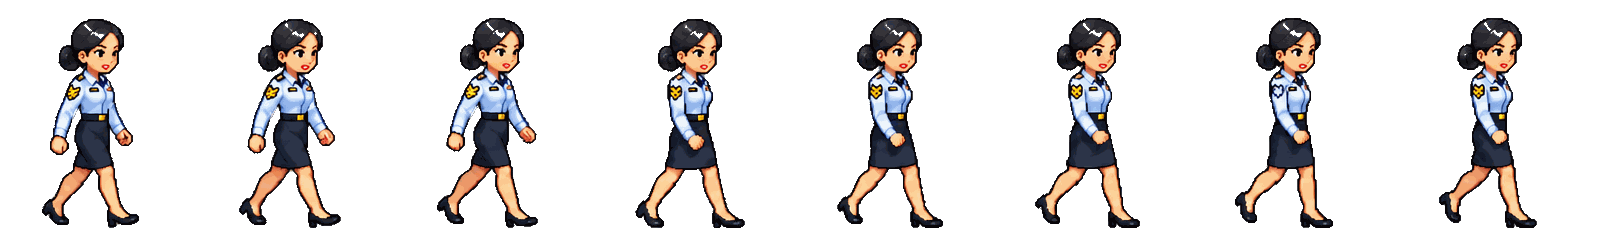
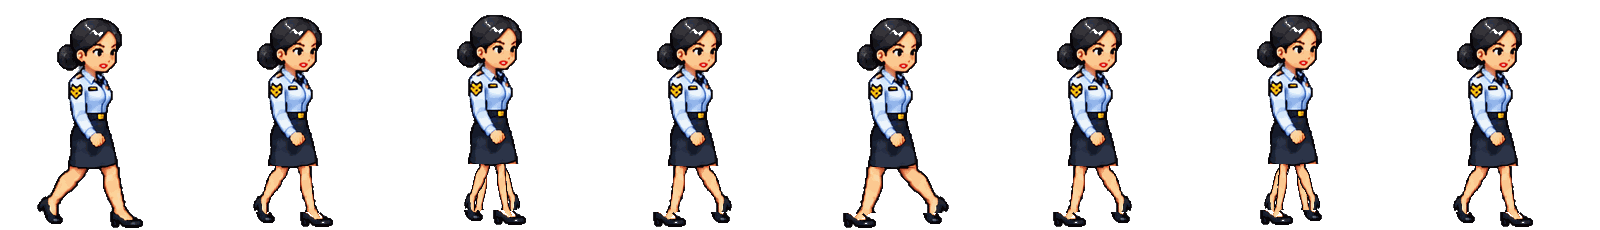
v80: Cream walk — real alternating leg cycle built from the side-view stride (sheet frames never swapped legs)
Claude-Session: https://claude.ai/code/session_01VFZcD5MpvnMAPzCcrJgChf

diff --git a/public/index.html b/public/index.html
@@ -9,9 +9,9 @@
 <meta name="apple-mobile-web-app-title" content="LETTERⁿ">
 <meta name="theme-color" content="#08070f">
 <meta name="description" content="LETTERⁿ — เกมสะกดคำภาษาอังกฤษสู้มอนสเตอร์">
-<link rel="manifest" href="manifest.json?v=79">
-<link rel="icon" href="icons/icon-192.png?v=79">
-<link rel="apple-touch-icon" href="icons/apple-touch-icon.png?v=79">
+<link rel="manifest" href="manifest.json?v=80">
+<link rel="icon" href="icons/icon-192.png?v=80">
+<link rel="apple-touch-icon" href="icons/apple-touch-icon.png?v=80">
 <meta name="apple-mobile-web-app-capable" content="yes">
 <title>LETTERⁿ — Word Battle RPG</title>
 <link rel="preconnect" href="https://fonts.googleapis.com">
@@ -1333,20 +1333,20 @@ button,.tile{touch-action:manipulation;-webkit-tap-highlight-color:transparent}
   .modal-box,.sheet{max-height:92vh;overflow-y:auto}
 }
 </style>
-<link rel="stylesheet" href="css/ql2.css?v=79">
-<link rel="stylesheet" href="css/endgame.css?v=79">
-<link rel="stylesheet" href="css/battle.css?v=79">
-<link rel="stylesheet" href="css/ui26.css?v=79">
-<link rel="stylesheet" href="css/boss.css?v=79">
-<link rel="stylesheet" href="css/tactics.css?v=79">
-<link rel="stylesheet" href="css/ecl.css?v=79">
+<link rel="stylesheet" href="css/ql2.css?v=80">
+<link rel="stylesheet" href="css/endgame.css?v=80">
+<link rel="stylesheet" href="css/battle.css?v=80">
+<link rel="stylesheet" href="css/ui26.css?v=80">
+<link rel="stylesheet" href="css/boss.css?v=80">
+<link rel="stylesheet" href="css/tactics.css?v=80">
+<link rel="stylesheet" href="css/ecl.css?v=80">
 </head>
 <body>
 <div id="app"></div>
-<script src="js/ql2/balance.js?v=79"></script>
-<script src="data/lexicon.js?v=79"></script>
-<script src="data/vocabulary.js?v=79"></script>
-<script src="js/ql2/vocab.js?v=79"></script>
+<script src="js/ql2/balance.js?v=80"></script>
+<script src="data/lexicon.js?v=80"></script>
+<script src="data/vocabulary.js?v=80"></script>
+<script src="js/ql2/vocab.js?v=80"></script>
 <script>window.__QL2 = 1; setTimeout(function(){ if(!window.__QL2_READY && typeof render==='function'){ window.__QL2 = 0; render(); } }, 5000);</script>
 <div class="toasts" id="toasts"></div>
 <div id="overlay"></div>
@@ -1794,7 +1794,7 @@ const ARMOR_OV = {
 */
 const HERO_IMG = {
 };
-const HERO_IMG_VER = 28; // เปลี่ยนภาพแล้วภาพเก่ายังค้าง → เพิ่มเลขนี้ทีละ 1
+const HERO_IMG_VER = 29; // เปลี่ยนภาพแล้วภาพเก่ายังค้าง → เพิ่มเลขนี้ทีละ 1
 function heroImgSVG(cfg){
   const h = cfg.h || 160, w = h, x = -w/2 + (cfg.dx||0), y = -h + (cfg.dy||0);
   const src = cfg.src + (cfg.src.includes('?') ? '&' : '?') + 'v=' + HERO_IMG_VER;
@@ -6076,7 +6076,7 @@ render();
 setMusic(save.settings.music);
 if('serviceWorker' in navigator && location.protocol.startsWith('http')) navigator.serviceWorker.register('service-worker.js', { updateViaCache:'none' }).then(r=>{ window.__swReg = r; }).catch(()=>{});
 /* v66: never run a half-updated game — if the server has a newer version, reload once (not in the middle of a battle / exam) */
-const APP_VERSION = 79;
+const APP_VERSION = 80;
 (function(){
   let busy = false;
   async function check(){
@@ -7071,43 +7071,43 @@ document.documentElement.classList.add('v16');
 if(ui.screen!=='battle') render();
 </script>
 <!-- Quest Lines 2.0 — World & Progression (loaded after the game; wraps it, never replaces the battle) -->
-<script src="js/ql2/core.js?v=79"></script>
-<script src="js/ql2/quests.js?v=79"></script>
-<script src="js/ql2/shell.js?v=79"></script>
-<script src="js/ql2/settings.js?v=79"></script>
-<script src="js/ql2/hub.js?v=79"></script>
-<script src="js/ql2/world.js?v=79"></script>
-<script src="js/ql2/questboard.js?v=79"></script>
-<script src="js/ql2/heroes.js?v=79"></script>
-<script src="js/ql2/inventory.js?v=79"></script>
-<script src="js/ql2/codex.js?v=79"></script>
-<script src="js/ql2/profile.js?v=79"></script>
-<script src="js/ql2/endgame-core.js?v=79"></script>
-<script src="js/ql2/endgame-modes.js?v=79"></script>
-<script src="js/ql2/endgame-ui.js?v=79"></script>
-<script src="js/ql2/armory.js?v=79"></script>
-<script src="js/ql2/items.js?v=79"></script>
-<script src="js/ql2/more.js?v=79"></script>
-<script src="js/ql2/wordfx.js?v=79"></script>
-<script src="js/ql2/boss-encounter.js?v=79"></script>
-<script src="js/ql2/zombies.js?v=79"></script>
-<script src="js/ql2/bestiary.js?v=79"></script>
-<script src="js/ql2/kirby.js?v=79"></script>
-<script src="js/ql2/knight.js?v=79"></script>
-<script src="js/ql2/unlocks.js?v=79"></script>
-<script src="js/ql2/tactics.js?v=79"></script>
-<script src="js/ql2/events.js?v=79"></script>
-<script src="js/ql2/ecl.js?v=79"></script>
-<script src="js/ql2/luffy.js?v=79"></script>
-<script src="js/ql2/sonic.js?v=79"></script>
-<script src="js/ql2/heroplus.js?v=79"></script>
-<script src="js/ql2/heroup.js?v=79"></script>
-<script src="js/ql2/ultcharge.js?v=79"></script>
-<script src="js/ql2/yota.js?v=79"></script>
-<script src="js/ql2/cream.js?v=79"></script>
-<script src="js/ql2/freeheroes.js?v=79"></script>
-<script src="js/ql2/goldbulb.js?v=79"></script>
-<script src="js/ql2/title.js?v=79"></script>
-<script src="js/ql2/dev.js?v=79"></script>
-<script src="js/ql2/boot.js?v=79"></script>
+<script src="js/ql2/core.js?v=80"></script>
+<script src="js/ql2/quests.js?v=80"></script>
+<script src="js/ql2/shell.js?v=80"></script>
+<script src="js/ql2/settings.js?v=80"></script>
+<script src="js/ql2/hub.js?v=80"></script>
+<script src="js/ql2/world.js?v=80"></script>
+<script src="js/ql2/questboard.js?v=80"></script>
+<script src="js/ql2/heroes.js?v=80"></script>
+<script src="js/ql2/inventory.js?v=80"></script>
+<script src="js/ql2/codex.js?v=80"></script>
+<script src="js/ql2/profile.js?v=80"></script>
+<script src="js/ql2/endgame-core.js?v=80"></script>
+<script src="js/ql2/endgame-modes.js?v=80"></script>
+<script src="js/ql2/endgame-ui.js?v=80"></script>
+<script src="js/ql2/armory.js?v=80"></script>
+<script src="js/ql2/items.js?v=80"></script>
+<script src="js/ql2/more.js?v=80"></script>
+<script src="js/ql2/wordfx.js?v=80"></script>
+<script src="js/ql2/boss-encounter.js?v=80"></script>
+<script src="js/ql2/zombies.js?v=80"></script>
+<script src="js/ql2/bestiary.js?v=80"></script>
+<script src="js/ql2/kirby.js?v=80"></script>
+<script src="js/ql2/knight.js?v=80"></script>
+<script src="js/ql2/unlocks.js?v=80"></script>
+<script src="js/ql2/tactics.js?v=80"></script>
+<script src="js/ql2/events.js?v=80"></script>
+<script src="js/ql2/ecl.js?v=80"></script>
+<script src="js/ql2/luffy.js?v=80"></script>
+<script src="js/ql2/sonic.js?v=80"></script>
+<script src="js/ql2/heroplus.js?v=80"></script>
+<script src="js/ql2/heroup.js?v=80"></script>
+<script src="js/ql2/ultcharge.js?v=80"></script>
+<script src="js/ql2/yota.js?v=80"></script>
+<script src="js/ql2/cream.js?v=80"></script>
+<script src="js/ql2/freeheroes.js?v=80"></script>
+<script src="js/ql2/goldbulb.js?v=80"></script>
+<script src="js/ql2/title.js?v=80"></script>
+<script src="js/ql2/dev.js?v=80"></script>
+<script src="js/ql2/boot.js?v=80"></script>
 </body></html>

diff --git a/public/service-worker.js b/public/service-worker.js
@@ -1,5 +1,5 @@
-const CACHE_NAME = 'quest-lines-v79';
-const V = '?v=79';
+const CACHE_NAME = 'quest-lines-v80';
+const V = '?v=80';
 const MODULES = ['balance','vocab','core','quests','shell','settings','hub','world','questboard','heroes','inventory','codex','profile','endgame-core','endgame-modes','endgame-ui','armory','items','more','wordfx','boss-encounter','zombies','bestiary','kirby','knight','unlocks','tactics','events','ecl','luffy','sonic','heroplus','heroup','ultcharge','yota','cream','freeheroes','goldbulb','title','dev','boot'];
 const APP_SHELL = ['./', './index.html', './manifest.json', './scenes/hub/cave.png', './title/logo.webp', './npc/merchant.png', './icons/icon-192.png', './icons/icon-512.png', './css/ql2.css' + V, './css/endgame.css' + V, './css/battle.css' + V, './css/ui26.css' + V, './css/boss.css' + V, './css/tactics.css' + V, './css/ecl.css' + V,
   './data/lexicon.js' + V, './data/vocabulary.js' + V,

diff --git a/public/js/ql2/cream.js b/public/js/ql2/cream.js
@@ -29,7 +29,7 @@
   HERO_SPRITE.cream = { dir:'heroes/cream/', ch:230, scale:S, face:'-14 -122 34 34',
     anims:{
       idle:   { n:10, cw:200, ax:90,  dur:1.5, loop:true },
-      walk:   { n:8,  cw:200, ax:90,  dur:.8,  loop:true, th:'เดิน' },
+      walk:   { n:8,  cw:200, ax:90,  dur:.72, loop:true, th:'เดิน' },   // v80: real alternating cycle (tools/cream-walkgen.py)
       hurt:   { n:3,  cw:240, ax:100, dur:.45 },
       dead:   { n:7,  cw:400, ax:110, dur:1.4 },
       guard:  { n:2,  cw:240, ax:90,  dur:.25, th:'🔥 ชาร์จ (การ์ด)' },

diff --git a/tools/cream-walkgen.py b/tools/cream-walkgen.py
@@ -1,0 +1,79 @@
+"""Build a real alternating walk cycle from one side-view stride frame.
+The sheet's 8 'walk' drawings all hold the same stride (same leg forward, view switches 3/4→side),
+so the legs never pass each other. Here: legs below the skirt hem are swung like a pendulum
+(x' = hip + s·(x − hip), s = cos φ, mirrored for the other leg), shoes are re-pasted unmirrored,
+and the body bobs (up when the legs pass, down on contact).
+usage: python3 -I walkgen.py walk.png base_index out.png"""
+import sys, math
+import numpy as np
+from PIL import Image
+from scipy import ndimage as ndi
+src, bi, out = sys.argv[1], int(sys.argv[2]), sys.argv[3]
+CW, CHH = 200, 230
+strip = np.array(Image.open(src).convert('RGBA')).astype(np.float32)
+f = strip[:, bi*CW:(bi+1)*CW].copy()
+a = f[..., 3] > 40
+ys = np.where(a.any(1))[0]; top, bot = ys.min(), ys.max()
+r, g, b = f[..., 0], f[..., 1], f[..., 2]
+skirt = a & (b > r + 12) & (r < 90) & (g < 100)              # dark navy skirt
+cnt = skirt.sum(1); rows = [y for y in range(top + (bot-top)//2, bot) if cnt[y] >= 14]
+hem = rows[0]
+while hem + 1 < bot and cnt[hem + 1] >= 8: hem += 1
+hem += 1
+legs = np.zeros_like(a); legs[hem:bot + 1] = a[hem:bot + 1]
+dark = legs & (f[..., :3].max(2) < 70)                         # shoes = dark blobs at the bottom
+dark[:bot - 13] = False
+lab, n = ndi.label(ndi.binary_dilation(dark, iterations=1) & legs)
+shoes = []
+for k in range(1, n + 1):
+    m = lab == k
+    if m.sum() < 25: continue
+    yy, xx = np.where(m); shoes.append((m, xx.min(), xx.max(), yy.min(), yy.max()))
+hipx = np.where(a[hem:hem + 4].any(0))[0].mean()
+hip_row = lambda y: hipx
+print('hem', hem, 'bot', bot, 'hip', round(hipx, 1), 'shoes', [(s[1], s[2]) for s in shoes])
+upper = f.copy(); upper[hem:] = 0
+legs_only = f.copy(); legs_only[:hem] = 0
+for m, *_ in shoes: legs_only[m] = 0
+frames = []
+N = 8
+for k in range(N):
+    phi = 2 * math.pi * k / N
+    s = math.cos(phi)
+    s = math.copysign(max(abs(s), .5), s if abs(s) > 1e-6 else (1 if k < N//2 else -1))
+    bob = -round(3 * (1 - abs(math.cos(phi))))           # up while passing
+    canvas = np.zeros((CHH, CW, 4), np.float32)
+    # legs: the whole leg layer is scaled horizontally about the hip (s<0 = mirrored → other leg forward);
+    # near the passing pose the mirrored copy is added too, so both legs show close together
+    def put(scale):
+        sc = abs(scale)
+        h = bot + 1 - hem
+        L = Image.fromarray(legs_only[hem:bot + 1].astype(np.uint8), 'RGBA')
+        if scale < 0: L = L.transpose(Image.FLIP_LEFT_RIGHT)
+        cxs = (CW - 1 - hipx) if scale < 0 else hipx              # hip column after the flip
+        W2 = max(1, int(round(CW * sc)))
+        L = L.resize((W2, h), Image.NEAREST)
+        arr = np.array(L).astype(np.float32)
+        ox = int(round(hipx - cxs * sc))
+        for x in range(W2):
+            nx = x + ox
+            if 0 <= nx < CW:
+                col = arr[:, x]; m = (col[:, 3] > 40) & (canvas[hem:bot + 1, nx, 3] < 40)
+                canvas[hem:bot + 1, nx][m] = col[m]
+    put(s)
+    if abs(s) < .6: put(-s)
+    # shoes: same shape, moved with their leg (never mirrored)
+    for m, x0, x1, y0, y1 in shoes:
+        cx = (x0 + x1) / 2; ncx = hipx + s * (cx - hipx); dx = int(round(ncx - cx))
+        yy, xx = np.where(m)
+        ok = (xx + dx >= 0) & (xx + dx < CW)
+        canvas[yy[ok], xx[ok] + dx] = f[yy[ok], xx[ok]]
+    # upper body on top (skirt covers the thighs)
+    up = upper[..., 3] > 0
+    canvas[up] = upper[up]
+    # bob the whole figure, feet stay on the floor on contact frames
+    canvas = np.roll(canvas, bob, 0)
+    if bob < 0: canvas[bob:] = 0
+    frames.append(canvas)
+s = np.concatenate(frames, axis=1).astype(np.uint8)
+Image.fromarray(s, 'RGBA').quantize(256, method=Image.Quantize.FASTOCTREE, dither=Image.Dither.NONE).save(out, optimize=True)

diff --git a/README.md b/README.md
@@ -16,6 +16,10 @@
 - คำหยาบใช้ได้ 🤬 ดาเมจ x2 แต่สะท้อนเข้าตัวเอง 30% ของ HP — so rude!
 - คีย์บอร์ด: พิมพ์ตัวอักษร · Backspace ลบ · Enter โจมตี · Space สลับ · Esc หยุด
 
+## 🚶 v80 — ท่าเดินของ Cream เดินจริงแล้ว
+- ชีต Airforce Officer: ทั้ง 8 รูปในแถว WALK เป็นท่าก้าวเดียวกัน (ขาเดิมอยู่หน้าตลอด และมุมมองเปลี่ยนจาก 3/4 เป็นด้านข้างกลางรอบ) → ขาไม่สลับ ดูไม่เหมือนเดิน
+- สร้างรอบเดินใหม่จากรูปด้านข้างรูปเดียว: ขาแกว่งรอบสะโพก ก้าว → ขาเข้าหากัน → ก้าวขาอีกข้าง (สลับซ้าย-ขวาจริง) · รองเท้าหันไปข้างหน้าเสมอ · ตัวขึ้น-ลงตามจังหวะก้าว · สคริปต์: `tools/cream-walkgen.py`
+
 ## 🛠 v79 — แก้บั๊กฮีโร่หายหลังเปิดเกมใหม่ · ฮีโร่ที่เลือกไว้คงอยู่ · คำแปลไม่บังการโจมตีบนมือถือ
 - **บั๊ก:** ทุกครั้งที่เปิดเกม โค้ดตรวจรายชื่อฮีโร่ (v16) ลบฮีโร่ที่เพิ่มจากไฟล์ `js/ql2/*.js` (Luffy · Sonic · YOTA · Cream) ทิ้ง เพราะตอนตรวจไฟล์เหล่านั้นยังไม่โหลด → ฮีโร่ที่แลกคูปอง/ซื้อไว้หาย และฮีโร่ที่ใส่อยู่เด้งกลับเป็นอัศวิน · แก้ให้ลบเฉพาะฮีโร่ในรายการ REMOVED เท่านั้น
 - **ชดเชย:** ผู้เล่นที่ใช้คูปองไปแล้วได้คืนครบ 2 ใบ (ครั้งเดียว) พร้อมการ์ดแจ้ง "คืนคูปองให้ครบแล้ว" · ฮีโร่ที่แลกจากนี้บันทึกไว้ใน `save.couponHeroes`
